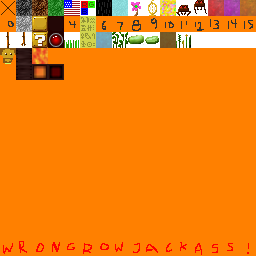
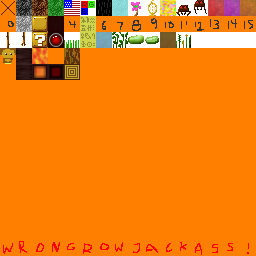
Horrible looking tree logs, to be improved right soon now

Changed region(s): [[0.25, 0.1875, 0.3125, 0.3125]]

diff --git a/main.js b/main.js
@@ -220,13 +220,13 @@ var BLOCK_TYPES = {
     },
   },
   mystery: {
-    tile: [2, 2, 2, 1],
+    tile: [2,2, 2,1],
     opaque: true,
     solid: true,
     stack: 1,
   },
   hal9000: {
-    tile: [3, 2, 3, 1],
+    tile: [3,2, 3,1],
     opaque: true,
     solid: true,
     stack: 1,
@@ -244,6 +244,11 @@ var BLOCK_TYPES = {
     stack: 2,
     solid: true,
     opaque: true,
+  },
+  log: {
+    tile: [4,3, 4,4],
+    solid: true,
+    geometry: blockGeometryLog,
   },
 };
 for (var i in BLOCK_TYPES)
@@ -1879,6 +1884,8 @@ var _FACES = faces(_CORNERS);
 Block.prototype.buildGeometry = function () {
   if (this.type.empty) {
     // do nothing
+  } else if (this.type.geometry) {
+    this.type.geometry(this);
   } else if (this.type.hashes) {
     blockGeometryHash(this);
   } else {
@@ -1976,6 +1983,64 @@ function blockGeometryBlock(b) {
     }
   }
 }
+
+
+function buildTree(base) {
+  base.placeBlock(BLOCK_TYPES.log);
+  base.bottomSize = Math.random(),
+  base.bottomOffset = [Math.random() * (1-base.bottomSize),
+                       Math.random() * (1-base.bottomSize)];
+  base.topSize = Math.random(),
+  base.topOffset = [Math.random() * (1-base.topSize),
+                    Math.random() * (1-base.topSize)];
+}
+
+
+function blockGeometryLog(b) {
+  b.vertices = {
+    aPos: [],
+    aLighting: [],
+    aColor: [],
+    aTexCoord: [],
+    indices: [],
+  };
+  /*
+  var r0 = b.radius0, r1 = b.radius1;
+  var cx0 = noise(b.x, 234.567 +  b.y   /5, b.z) % (0.5 - b.radius0) + 0.5;
+  var cx1 = noise(b.x, 234.567 + (b.y+1)/5, b.z) % (0.5 - b.radius1) + 0.5;
+  var cz0 = noise(b.x, 123.456 +  b.y   /5, b.z) % (0.5 - b.radius0) + 0.5;
+  var cz1 = noise(b.x, 123.456 + (b.y+1)/5, b.z) % (0.5 - b.radius1) + 0.5;
+*/
+  function corns(x, y, z, s) {
+    return [[x,   y, z  ],
+            [x+s, y, z  ],
+            [x+s, y, z+s],
+            [x,   y, z+s]];
+  }
+  /*
+  function sq(cx, y, cz, r) {
+    return [[cx - r, y, cz - r],
+            [cx + r, y, cz - r],
+            [cx + r, y, cz + r],
+            [cx - r, y, cz + r]];
+  }
+*/
+  var fs = faces(corns(
+    b.bottomOffset[0], 0, b.bottomOffset[1], b.bottomSize).concat(
+      corns(b.topOffset[0], 1, b.topOffset[1], b.topSize)));
+  geometryBox(b.vertices, {
+    light: b.light,
+    color: [1,1,1],
+    yaw: 0,
+    pitch: 0,
+    x: b.x,
+    y: b.y,
+    z: b.z,
+    tile: b.type,
+    faces: fs
+  });
+}
+
 
 function entityGeometryHash(ntt, vertices) {
   blockGeometryHash(ntt);
@@ -2757,12 +2822,8 @@ function onkeydown(event, count) {
       reload();
 
     if (c === 'C' && PICKED) {
-      // Spawn a drone
-      var f = PICKED.neighbor(PICKED_FACE);
-      new Entity({type: 'drone',
-                  x: f.x + 0.5, 
-                  y: f.y,
-                  z: f.z + 0.5});
+      // Grow a tree
+      buildTree(PICKED.neighbor(PICKED_FACE));
     }
 
     if (c === 'Y') {
@@ -3077,7 +3138,6 @@ ParticleSystem.prototype.spawn = function (init) {
   var TEXDIM = 4;
   p.tile = [p.tile.s * 16 + Math.floor(Math.random() * (15-TEXDIM)),
             p.tile.t * 16 + Math.floor(Math.random() * (15-TEXDIM))],
-  console.log(p.tile);
   this.add(p);
   return p;
 }
